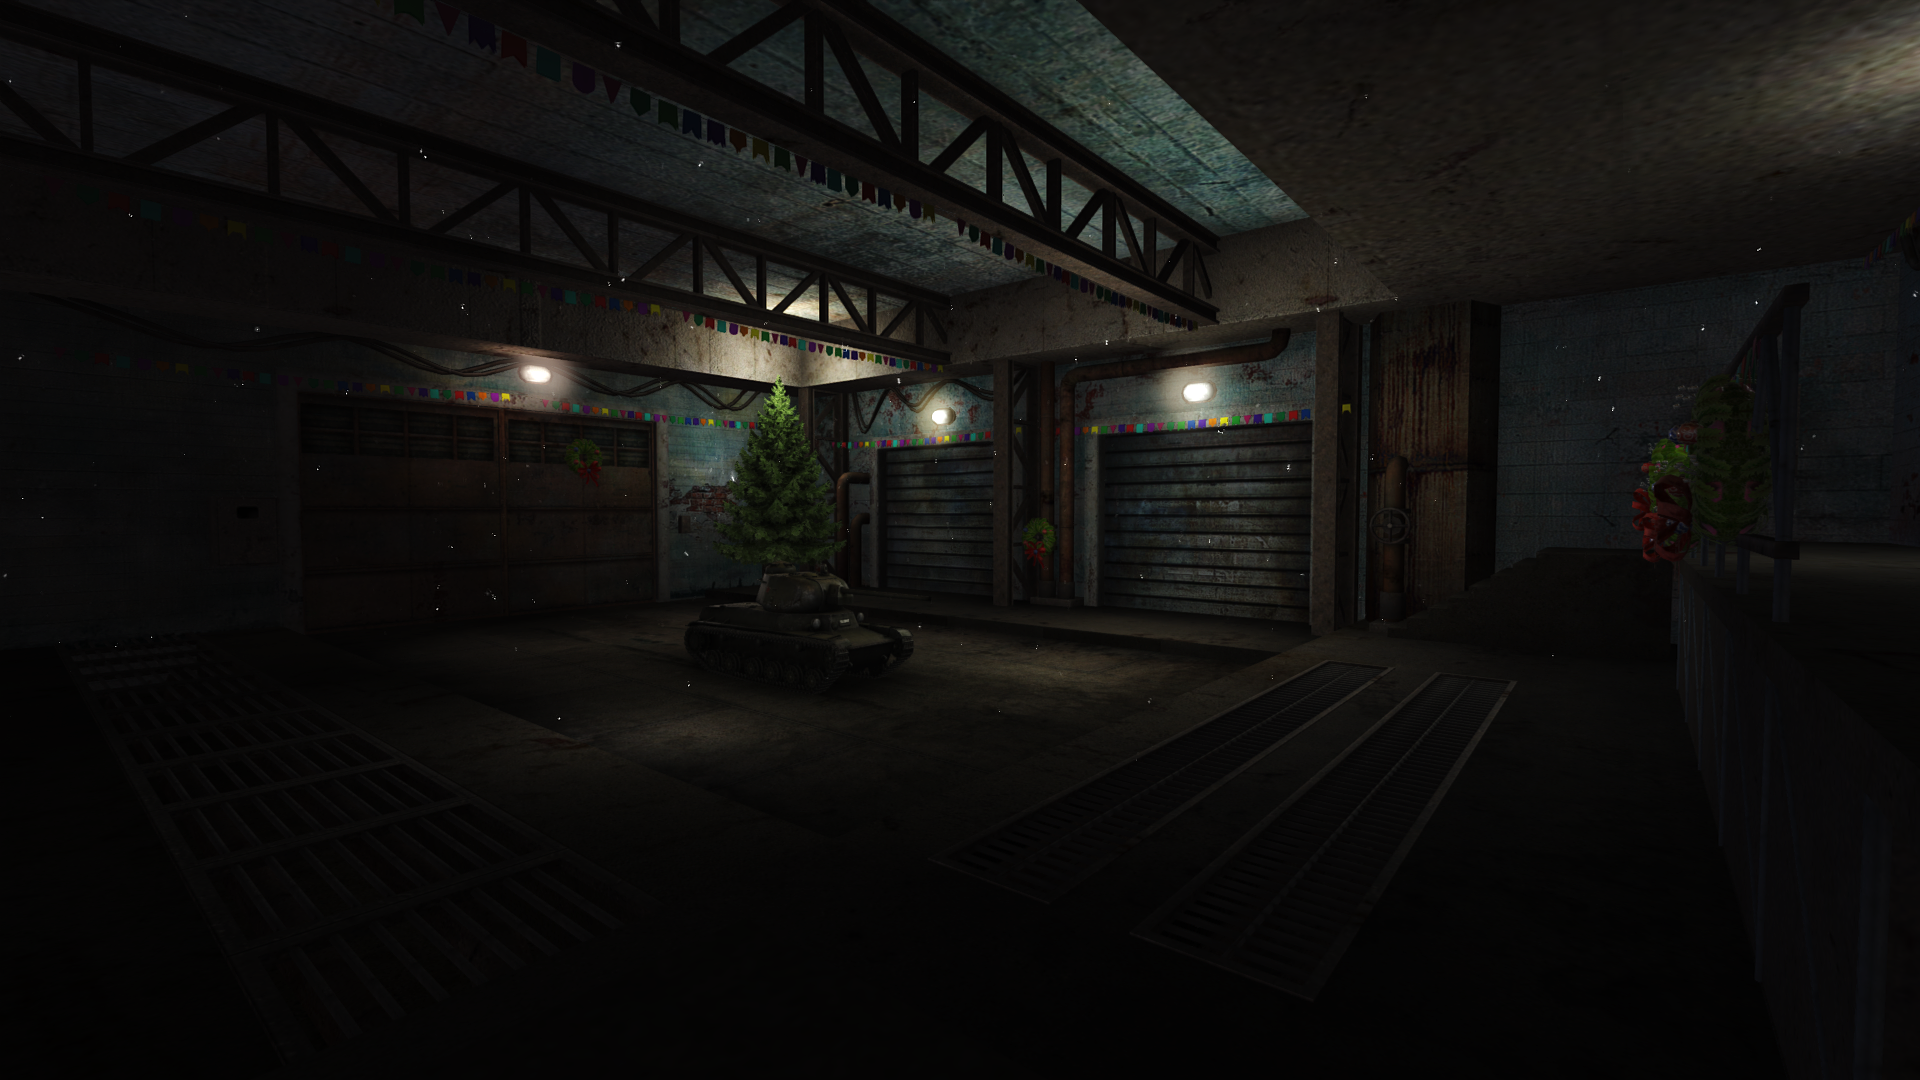
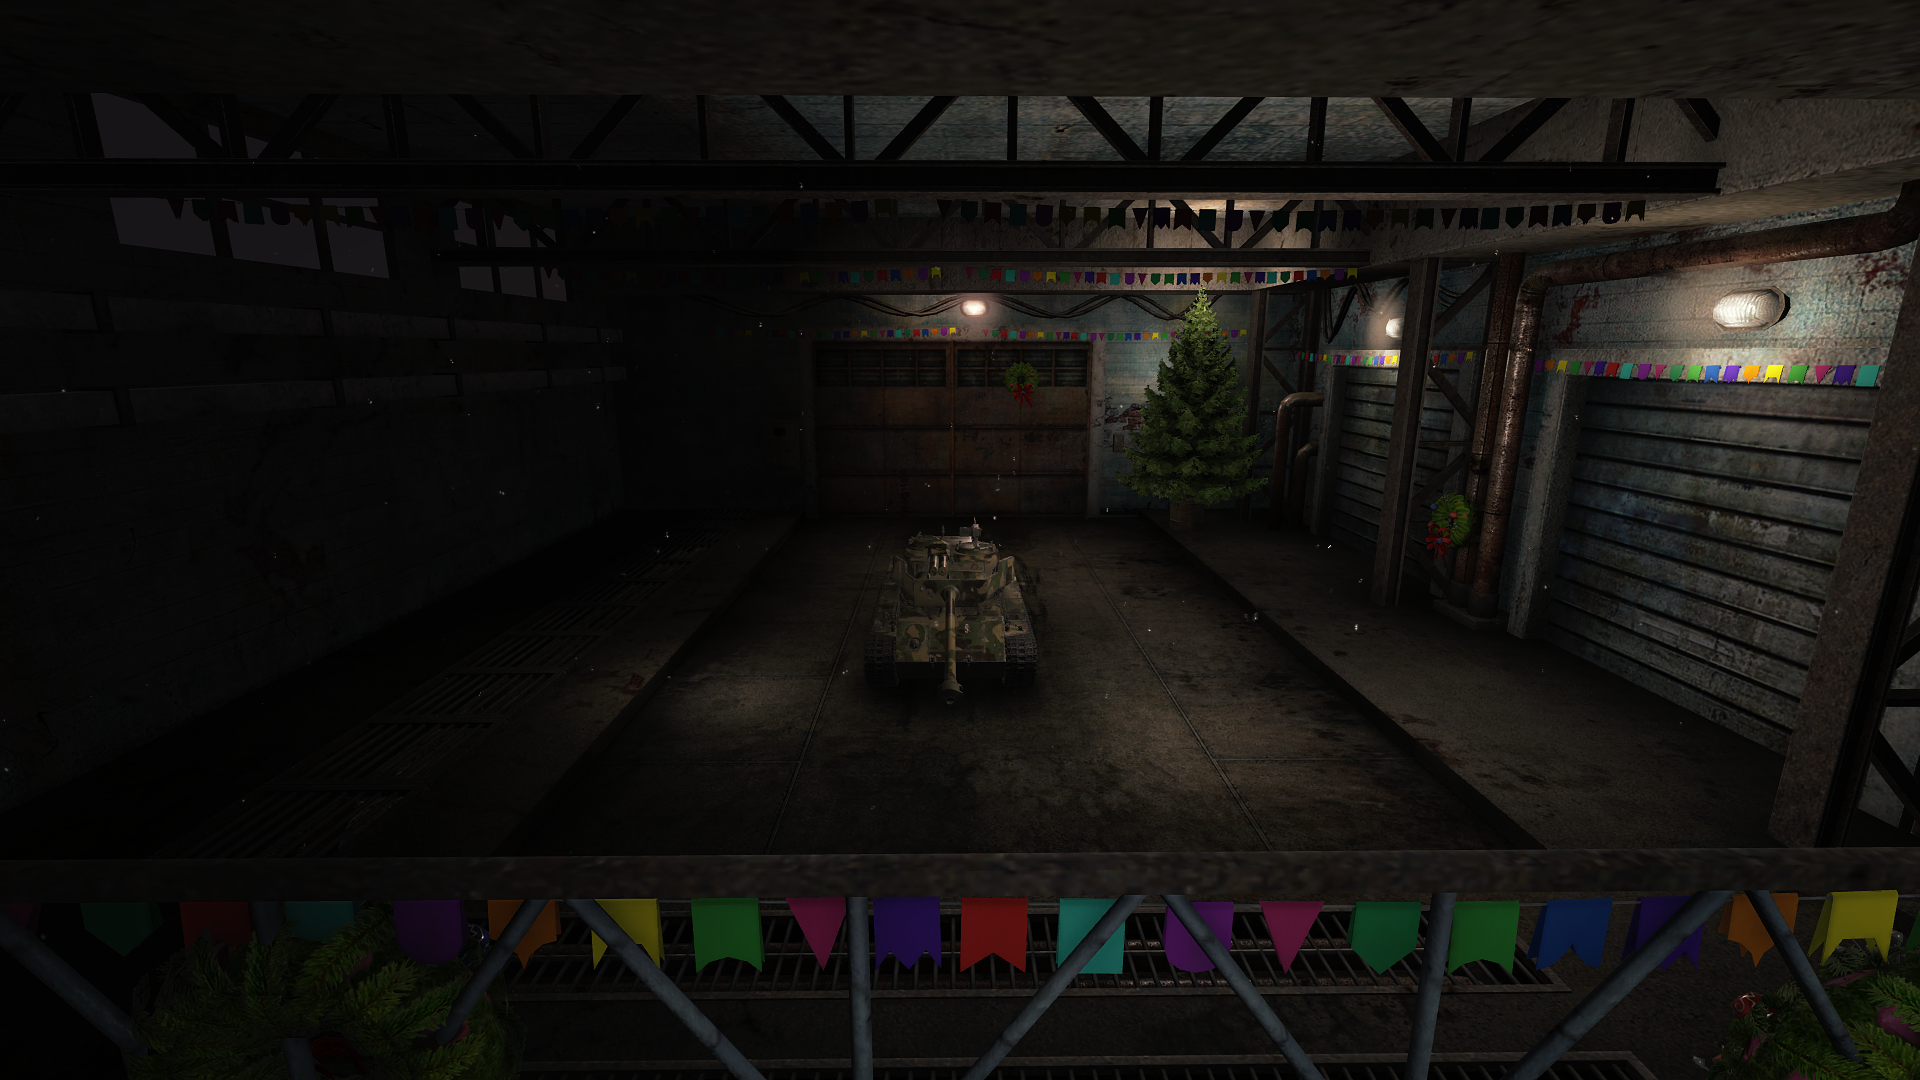
шпах ангар дал

diff --git a/_posts/2023-12-01-are-you-ready.md b/_posts/2023-12-01-are-you-ready.md
@@ -2,7 +2,7 @@
 title: 'А ты готов к новому году?'
 date: 2023-12-01
 tags: [important]
-last_modified_at: 2023-12-02 19:00:00 +0300
+last_modified_at: 2023-12-05 19:00:00 +0300
 category: updates
 image: "/assets/img/news/thumbnail/ny.png"
 image_small: "/assets/img/news/image_small/ny.png"
@@ -59,4 +59,10 @@ image_small: "/assets/img/news/image_small/ny.png"
 
 [![сюрпризы]({{ '/assets/img/news/screens/ny10.png' | relative_url}}){: width="100%" }](/assets/img/news/screens/ny10.png)
 
-*Дальше - больше...*
+#### Премиум ангар 2011
+
+Здесь ещё интереснее: праздничная версия премиум ангара перенесет вас в теплый и уютный новогодний уголок. На улице гремят салюты, а внутри ангара играет приятная новогодняя музыка. Если вы хотите погреться в уютной обстановке - этот ангар как раз для вас!
+
+[![сюрпризы]({{ '/assets/img/news/screens/ny11.png' | relative_url}}){: width="100%" }](/assets/img/news/screens/ny11.png)
+
+*Остался последний...*
